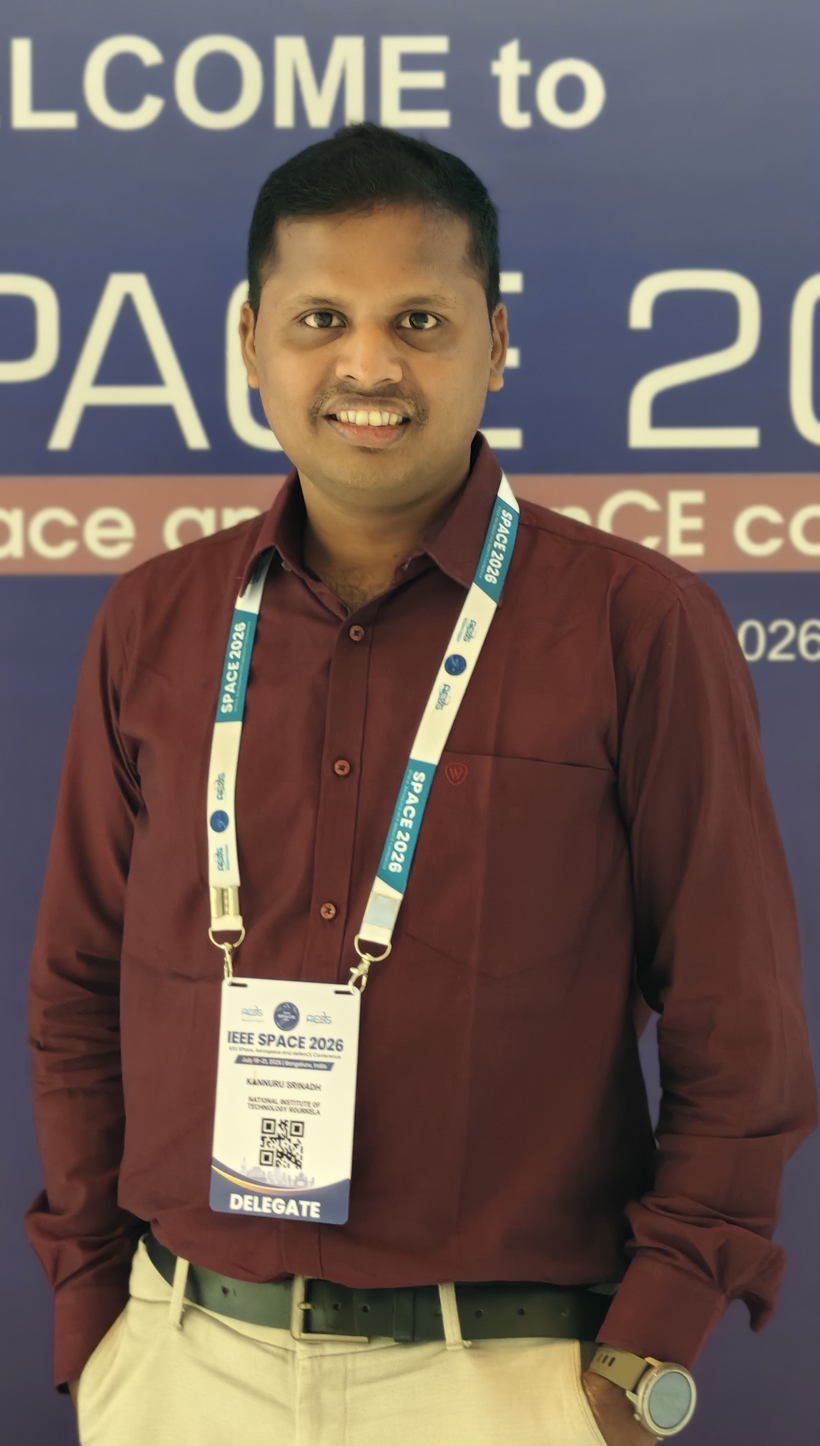
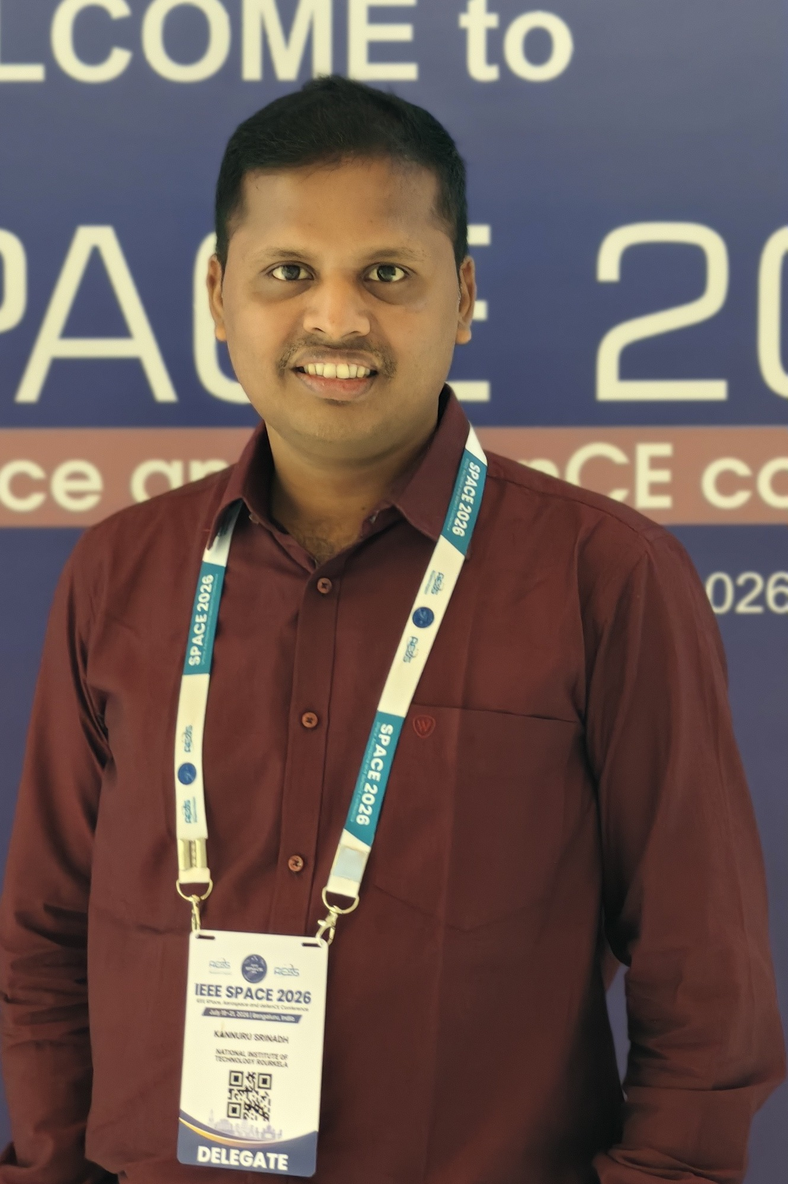
s

diff --git a/index.html b/index.html
@@ -53,7 +53,7 @@
     }
     </script>
 
-    <link rel="stylesheet" href="styles-two-column.css?v=4.0">
+    <link rel="stylesheet" href="styles-two-column.css?v=4.1">
     <link rel="stylesheet" href="https://cdnjs.cloudflare.com/ajax/libs/font-awesome/6.0.0/css/all.min.css">
     <link rel="manifest" href="manifest.json">
 </head>
@@ -102,7 +102,7 @@
                 <aside class="sidebar-left">
                     <!-- Profile Photo -->
                     <div class="sidebar-photo-box">
-                        <img src="images/KANNURU SRINADH.jpeg?v=4" alt="Kannuru Srinadh" class="profile-photo fade-in">
+                        <img src="images/KANNURU SRINADH.jpeg?v=5" alt="Kannuru Srinadh" class="profile-photo fade-in">
                     </div>
 
                     <!-- Academic Identity -->

diff --git a/sw.js b/sw.js
@@ -1,8 +1,8 @@
-const CACHE_NAME = 'srinadh-portfolio-v21';
+const CACHE_NAME = 'srinadh-portfolio-v22';
 const ASSETS = [
   './',
   './index.html',
-  './styles-two-column.css?v=4.0',
+  './styles-two-column.css?v=4.1',
   './script-two-column.js?v=2.3',
   './manifest.json',
   './images/KANNURU SRINADH.jpeg',
